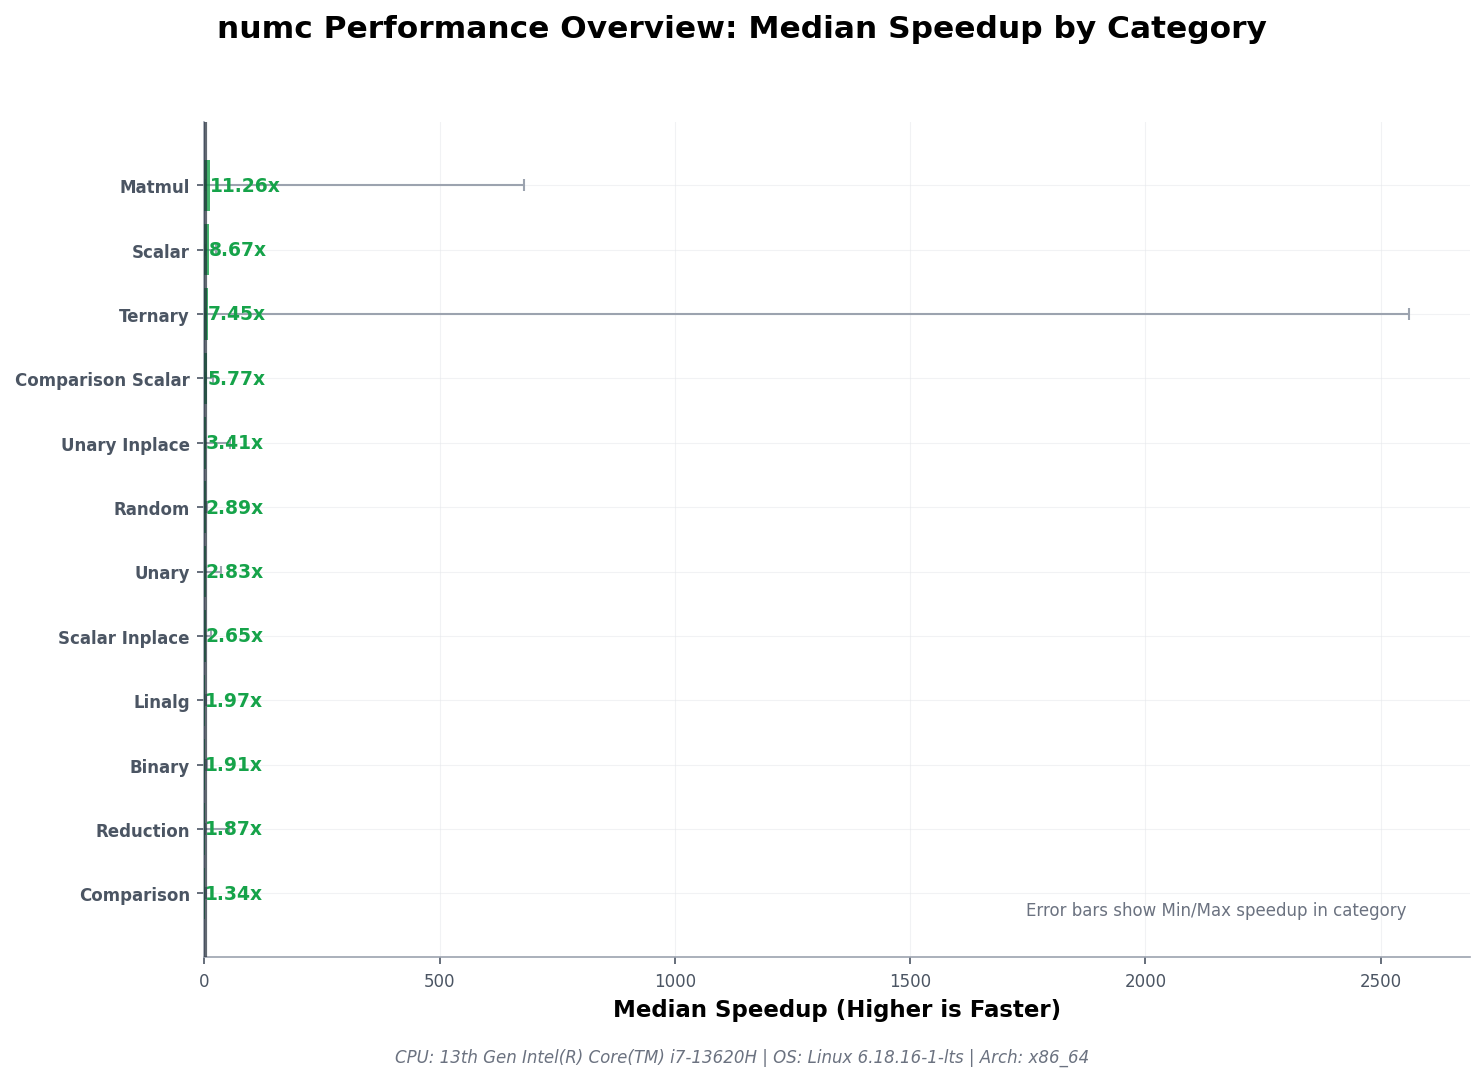
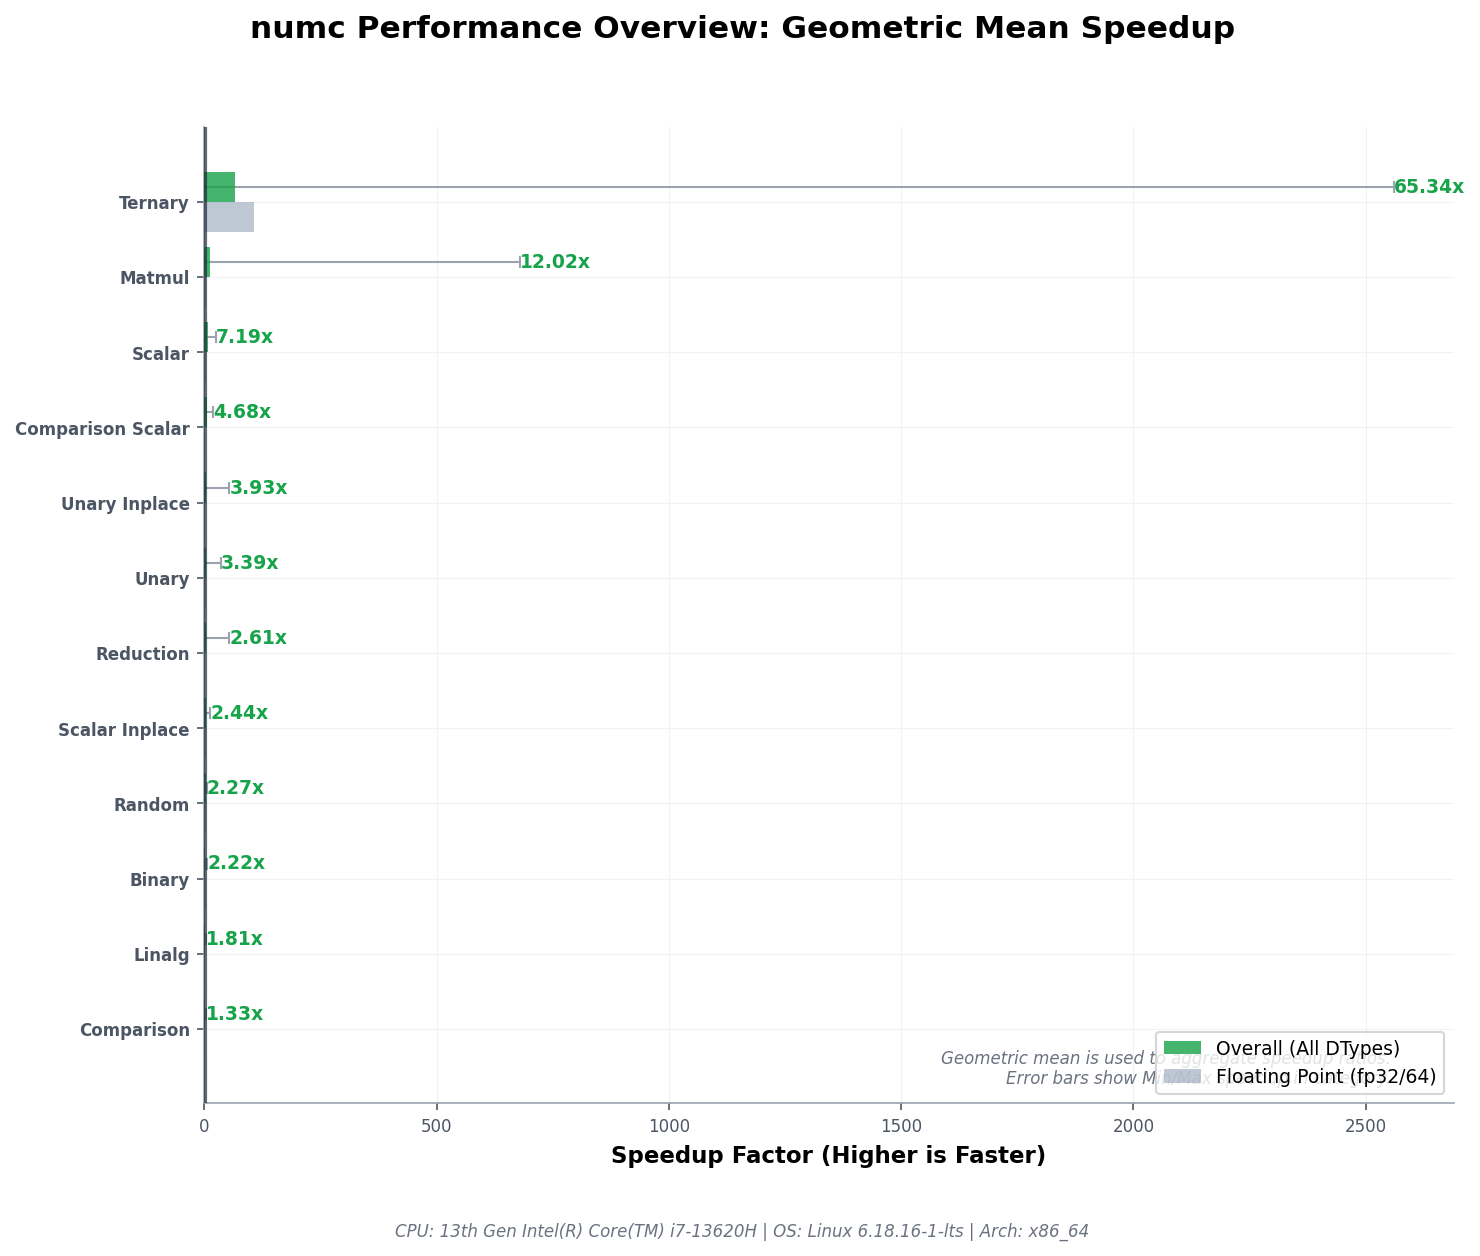
chore update plot

diff --git a/bench/graph/plot.py b/bench/graph/plot.py
@@ -204,38 +204,61 @@ def plot_dtype_heatmap(merged, category, operation, title, filename):
 
 
 def plot_overview(merged):
-    """High-level summary: Median Speedup per category."""
-    summary = merged.groupby("category")["speedup"].agg(["median", "max", "min"]).sort_values("median", ascending=True)
+    """High-level summary: Geometric Mean speedup per category."""
+    import math
 
-    fig, ax = plt.subplots(figsize=(10, max(5, len(summary) * 0.6)))
-    fig.suptitle("numc Performance Overview: Median Speedup by Category", fontsize=15, fontweight="bold", y=0.98)
+    def geo_mean(x):
+        return math.exp(np.log(x[x > 0]).mean())
+
+    # Calculate overall stats per category
+    summary = merged.groupby("category")["speedup"].agg([geo_mean, "max", "min"])
+    
+    # Calculate float-only stats for a more "fair" comparison
+    float_sub = merged[merged["dtype"].isin(["float32", "float64"])]
+    float_summary = float_sub.groupby("category")["speedup"].agg(geo_mean)
+    
+    # Sort by overall geo_mean
+    summary = summary.sort_values("geo_mean", ascending=True)
+    float_summary = float_summary.reindex(summary.index)
+
+    fig, ax = plt.subplots(figsize=(10, max(5, len(summary) * 0.7)))
+    fig.suptitle("numc Performance Overview: Geometric Mean Speedup", fontsize=15, fontweight="bold", y=0.98)
 
     y = np.arange(len(summary))
-    medians = summary["median"].values
+    height = 0.4
     
-    colors = [C_SPEEDUP if s >= 1 else C_SLOWDOWN for s in medians]
-    bars = ax.barh(y, medians, color=colors, zorder=3, alpha=0.8)
+    means = summary["geo_mean"].values
+    float_means = float_summary.values
     
-    # Error bars showing range (min to max)
-    ax.errorbar(medians, y, xerr=[medians - summary["min"], summary["max"] - medians], 
+    # Plot main bars (Overall)
+    colors = [C_SPEEDUP if s >= 1 else C_SLOWDOWN for s in means]
+    bars = ax.barh(y + height/2, means, height, color=colors, zorder=3, alpha=0.8, label="Overall (All DTypes)")
+    
+    # Plot secondary bars (Float-only)
+    ax.barh(y - height/2, float_means, height, color="#94a3b8", zorder=3, alpha=0.6, label="Floating Point (fp32/64)")
+    
+    # Error bars for overall range
+    ax.errorbar(means, y + height/2, xerr=[means - summary["min"], summary["max"] - means], 
                 fmt='none', ecolor='#9ca3af', elinewidth=1, capsize=3, zorder=2)
 
     ax.set_yticks(y)
     ax.set_yticklabels([c.replace("_", " ").title() for c in summary.index], fontsize=10, fontweight="bold")
     ax.axvline(x=1.0, color="#1f2937", linewidth=2, linestyle="-", zorder=4, alpha=0.7)
-    ax.set_xlabel("Median Speedup (Higher is Faster)", fontsize=11, fontweight="bold")
+    ax.set_xlabel("Speedup Factor (Higher is Faster)", fontsize=11, fontweight="bold")
+    ax.legend(loc="lower right", fontsize=9, frameon=True, facecolor=BG)
 
-    for bar, val in zip(bars, medians):
-        ax.text(bar.get_width() + 0.1, bar.get_y() + bar.get_height()/2,
+    # Text labels for overall speedup
+    for i, val in enumerate(means):
+        ax.text(max(val, summary["max"].iloc[i]) + 0.1, i + height/2,
                 f"{val:.2f}x", va="center", fontsize=9, fontweight="bold",
                 color=C_SPEEDUP if val >= 1 else C_SLOWDOWN)
 
-    # Add annotation about the error bars
-    ax.text(0.95, 0.05, "Error bars show Min/Max speedup in category", 
-            transform=ax.transAxes, ha='right', fontsize=8, color='#6b7280')
+    # Note about the metrics
+    ax.text(0.95, 0.02, "Geometric mean is used to aggregate speedup ratios.\nError bars show Min/Max speedup in category.", 
+            transform=ax.transAxes, ha='right', fontsize=8, color='#6b7280', style='italic')
 
     setup_ax(ax)
-    plt.tight_layout(rect=[0, 0.03, 1, 0.95])
+    plt.tight_layout(rect=[0, 0.05, 1, 0.95])
     save(fig, "overview.png")
 
 

diff --git a/bench/graph/README.md b/bench/graph/README.md
@@ -26,24 +26,44 @@ Results are saved to `bench/graph/output/`.
 Once you have run the benchmarks, you can view the results directly in this README (if your Markdown viewer supports local images).
 
 ### 1. Performance Overview
-A high-level summary of performance across all categories. Bars represent the **Median Speedup**, while error bars show the **Min/Max** range for operations within that category.
+A high-level summary of performance across all categories using the **Geometric Mean Speedup** (most representative for ratios).
+- **Colored Bars:** Overall speedup across all data types (int, uint, float).
+- **Gray Bars:** Speedup specifically for **Floating Point** (float32/float64) operations.
+- **Error Bars:** Show the **Min/Max** speedup range for operations within that category.
 
 ![Overview](output/overview.png)
 
 ### 2. Category Deep-Dives
 Each category provides a side-by-side comparison of absolute execution time (left) and the relative speedup factor (right).
 
-#### Binary Operations (add, sub, mul, div, etc.)
+#### Binary Operations (add, sub, mul, div, mod, etc.)
 ![Binary Combined](output/binary_combined.png)
+
+#### Ternary Operations (fma, etc.)
+![Ternary Combined](output/ternary_combined.png)
 
 #### Matrix Multiplication (GEMM)
 ![Matmul Combined](output/matmul_combined.png)
 
-#### Reductions (sum, mean, max, etc.)
+#### Reductions (sum, mean, max, dot, etc.)
 ![Reduction Combined](output/reduction_combined.png)
 
-#### Unary Operations (log, exp, sqrt, etc.)
+#### Unary Operations (exp, log, sqrt, etc.)
 ![Unary Combined](output/unary_combined.png)
+
+#### Inplace Operations (unary and scalar)
+![Unary Inplace Combined](output/unary_inplace_combined.png)
+![Scalar Inplace Combined](output/scalar_inplace_combined.png)
+
+#### Scalar Operations (array op scalar)
+![Scalar Combined](output/scalar_combined.png)
+
+#### Comparisons (array vs array and array vs scalar)
+![Comparison Combined](output/comparison_combined.png)
+![Comparison Scalar Combined](output/comparison_scalar_combined.png)
+
+#### Random Number Generation
+![Random Combined](output/random_combined.png)
 
 ---
 
